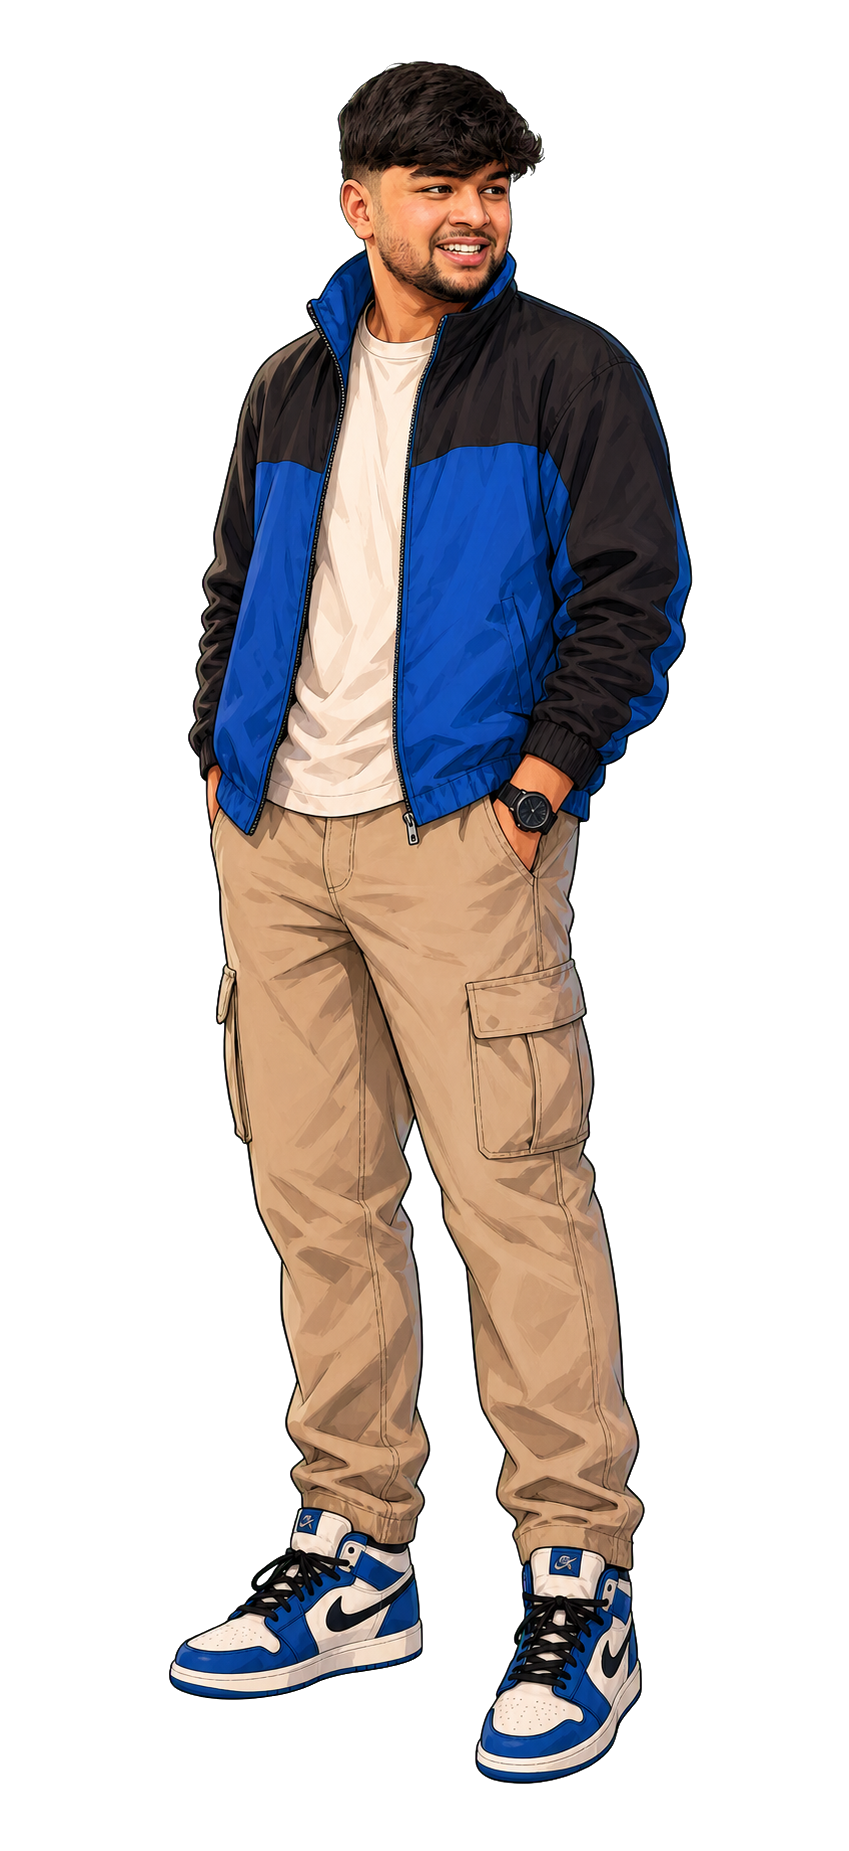
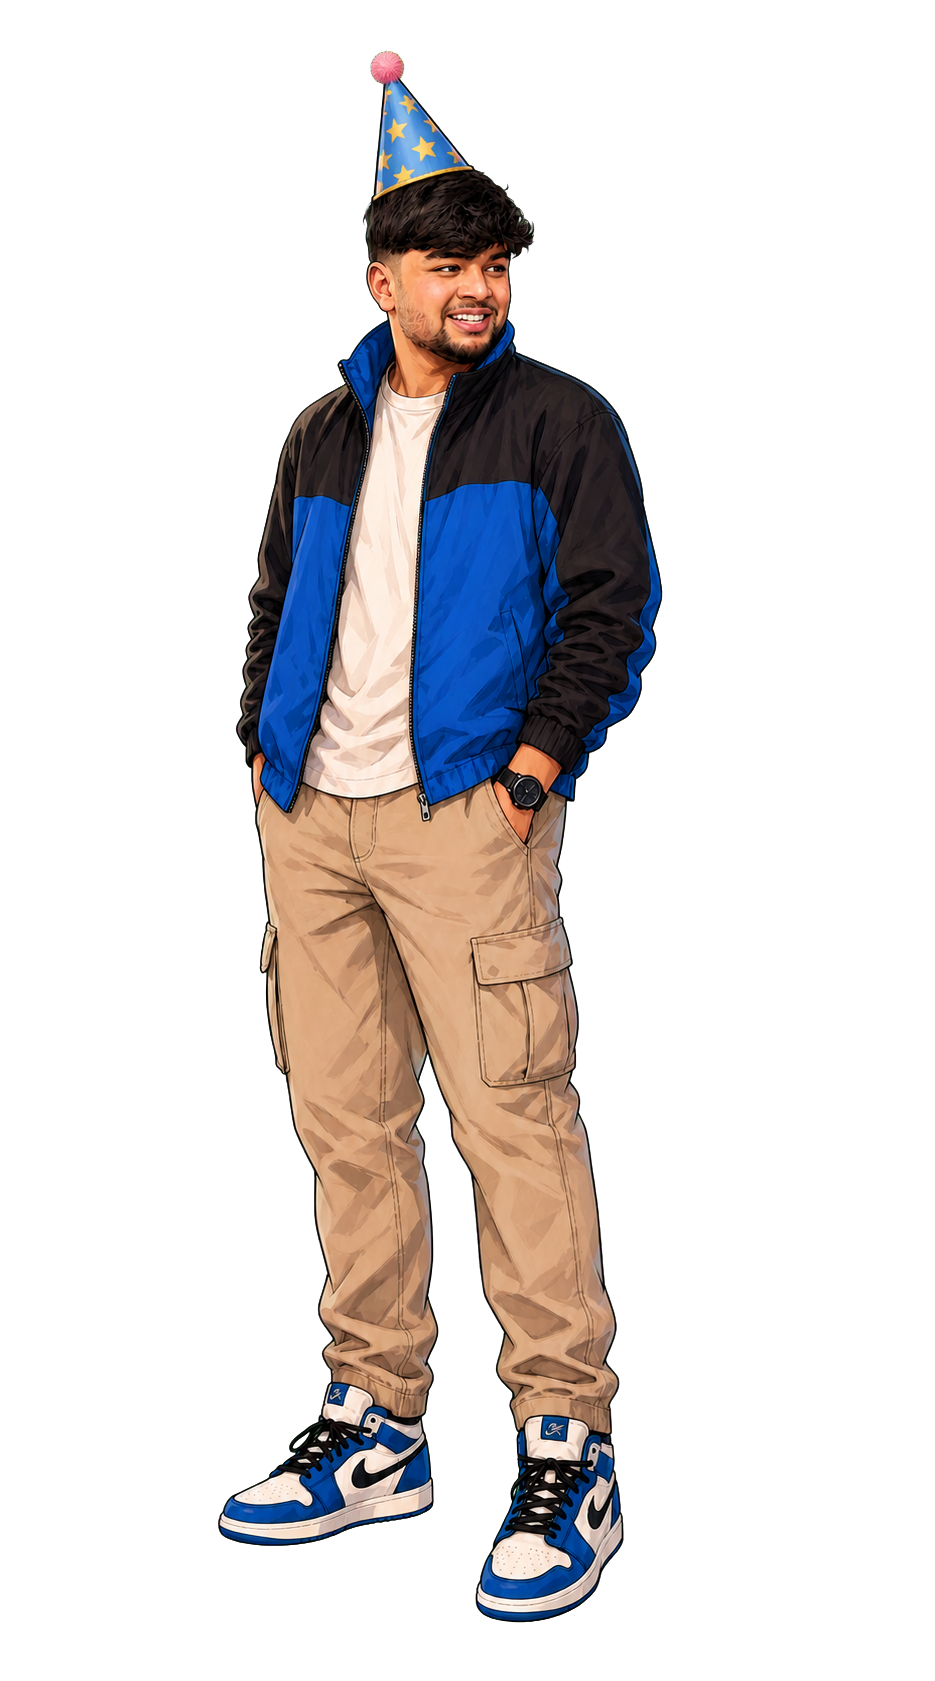
Add birthday cap character portraits

Changed region(s): [[0.1837, 0.0309, 0.8269, 0.9899]]

diff --git a/css/styles.css b/css/styles.css
@@ -56,7 +56,7 @@ small { color: var(--muted); font-size: .65rem; letter-spacing: .15em; }
 
 .hero-character { position: relative; align-self: end; justify-self: center; width: min(38vw, 520px); height: calc(100vh - 88px); min-height: 590px; }
 .hero-character::before { content: "20"; position: absolute; right: -4vw; top: 8%; color: rgba(255,255,255,.35); font-size: clamp(10rem, 24vw, 24rem); font-weight: 900; line-height: 1; text-shadow: 0 20px 60px rgba(86,139,181,.12); }
-.hero-character img { position: absolute; z-index: 3; right: 2%; bottom: -3%; width: auto; height: 91%; max-width: 100%; object-fit: contain; object-position: bottom center; filter: drop-shadow(0 30px 30px rgba(70,82,105,.22)); }
+.hero-character img { position: absolute; z-index: 3; right: -3%; bottom: -1%; width: auto; height: 94%; max-width: 115%; object-fit: contain; object-position: bottom center; filter: drop-shadow(0 30px 30px rgba(70,82,105,.22)); }
 .character-orbit { position: absolute; border: 1px solid rgba(86,139,181,.22); border-radius: 50%; }
 .character-orbit-one { width: 380px; height: 380px; right: 0; top: 20%; }
 .character-orbit-two { width: 480px; height: 480px; right: -80px; top: 13%; border-style: dashed; animation: rotate 25s linear infinite; }
@@ -110,7 +110,7 @@ small { color: var(--muted); font-size: .65rem; letter-spacing: .15em; }
 .qr-code { align-self: center; width: 58px; height: 58px; border: 5px solid #fff; outline: 1px solid rgba(25,48,74,.18); background: conic-gradient(from 90deg at 25% 25%, #20364d 25%, transparent 0 50%, #20364d 0 75%, transparent 0), conic-gradient(from 90deg at 75% 75%, #20364d 25%, transparent 0 50%, #20364d 0 75%, transparent 0); background-size: 13px 13px, 17px 17px; background-color: #fff; }
 .stub-sequence { color: #718395; font: .52rem Consolas, monospace; letter-spacing: .12em; }
 .departure-art { position: relative; align-self: end; justify-self: center; width: min(33vw, 470px); height: calc(100vh - 95px); min-height: 600px; }
-.departure-art img { position: absolute; z-index: 4; right: 50%; bottom: -4%; width: auto; height: 86%; max-width: 115%; transform: translateX(50%); filter: drop-shadow(0 26px 28px rgba(67,76,103,.2)); }
+.departure-art img { position: absolute; z-index: 4; right: 50%; bottom: -2%; width: auto; height: 91%; max-width: 125%; transform: translateX(50%); filter: drop-shadow(0 26px 28px rgba(67,76,103,.2)); }
 .sun-halo { position: absolute; top: 16%; left: 50%; width: 340px; height: 340px; border-radius: 50%; background: radial-gradient(circle, rgba(255,240,189,.9), rgba(248,220,232,.5) 60%, transparent 72%); transform: translateX(-50%); }
 .cloud { position: absolute; z-index: 2; height: 50px; border-radius: 50px; background: rgba(255,255,255,.66); filter: blur(.2px); }
 .cloud::before, .cloud::after { content: ""; position: absolute; bottom: 0; border-radius: 50%; background: inherit; }

diff --git a/index.html b/index.html
@@ -36,7 +36,7 @@
           <div class="character-orbit character-orbit-two"></div>
           <span class="map-label map-label-nepal">NEPAL // START</span>
           <span class="map-label map-label-australia">AUSTRALIA // LOCKED</span>
-          <img src="assets/character/hero-idle.png" alt="Cartoon character of Pranim in his blue and black jacket">
+          <img src="assets/character/hero-portrait.png" alt="Close cartoon portrait of Pranim wearing a birthday cap">
           <div class="character-tag"><small>PLAYER ONE</small><strong data-bind="name">Pranim</strong><span>ROAD DREAMER</span></div>
         </div>
       </section>
@@ -90,7 +90,7 @@
           <div class="sun-halo"></div>
           <div class="cloud cloud-one"></div>
           <div class="cloud cloud-two"></div>
-          <img src="assets/character/hero-idle.png" alt="">
+          <img src="assets/character/hero-portrait.png" alt="">
           <div class="boarding-note"><small>NEXT STOP</small><strong>AUSTRALIA</strong><span>Dream route unlocked</span></div>
         </div>
       </section>
